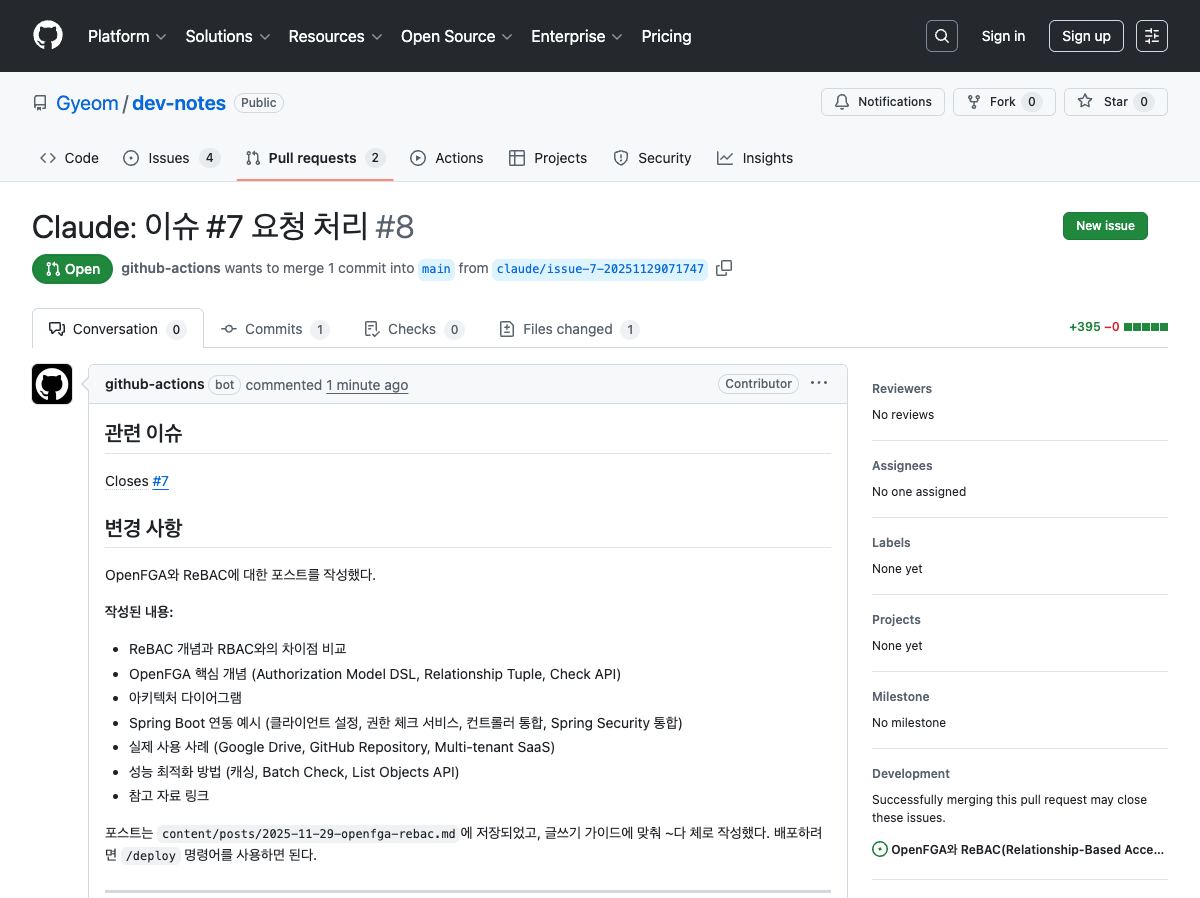
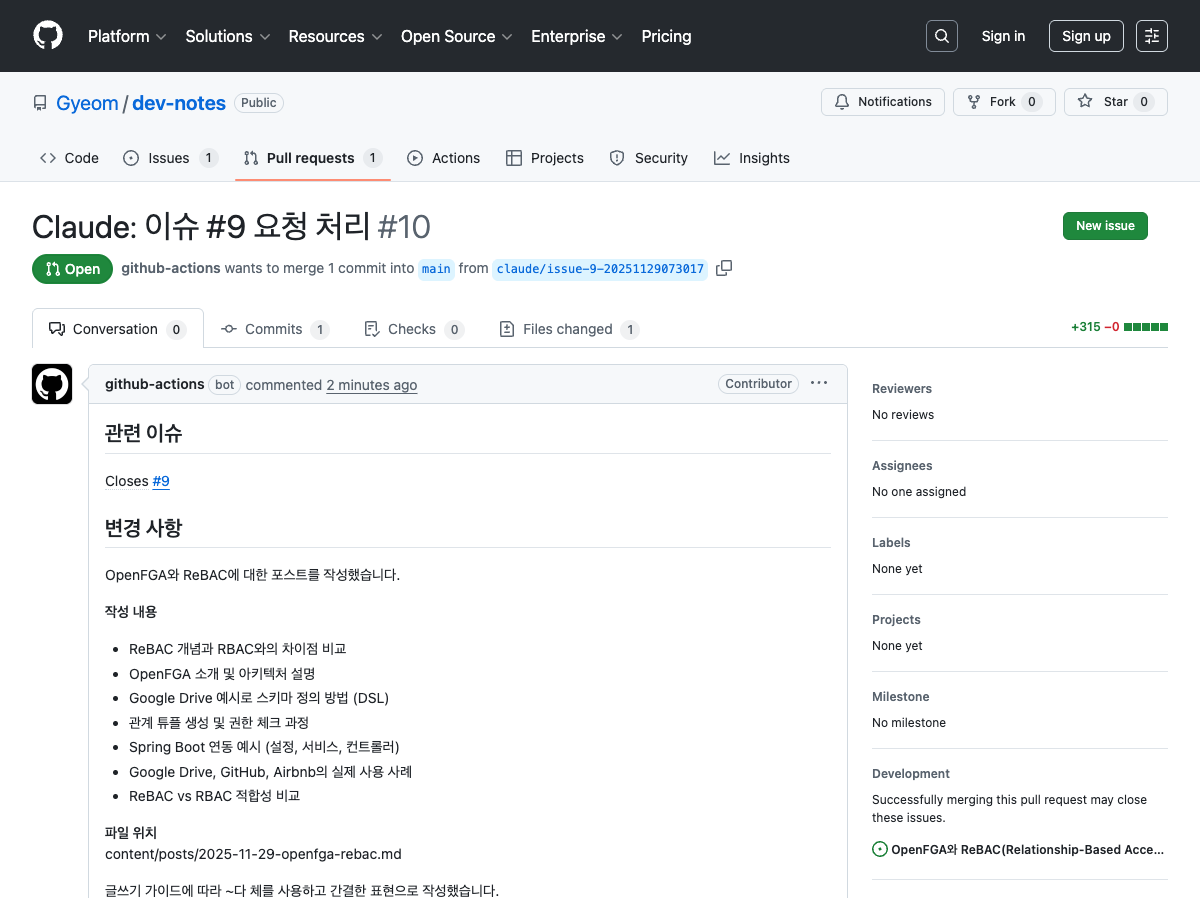
Update: 포스트 이미지 교체 및 이슈 번호 수정 (#9)
🤖 Generated with [Claude Code](https://claude.com/claude-code)

diff --git a/content/posts/2025-11-29-github-claude-automation.md b/content/posts/2025-11-29-github-claude-automation.md
@@ -183,7 +183,7 @@ Claude가 파일을 생성하고 PR을 만든다.
 
 ![PR 상세](/dev-notes/images/github-claude-automation/04-pr-detail.png)
 
-PR에는 관련 이슈 링크(`Closes #7`)가 포함되어, 머지 시 이슈가 자동으로 닫힌다.
+PR에는 관련 이슈 링크(`Closes #9`)가 포함되어, 머지 시 이슈가 자동으로 닫힌다.
 
 ### 워크플로우 실행 로그
 
